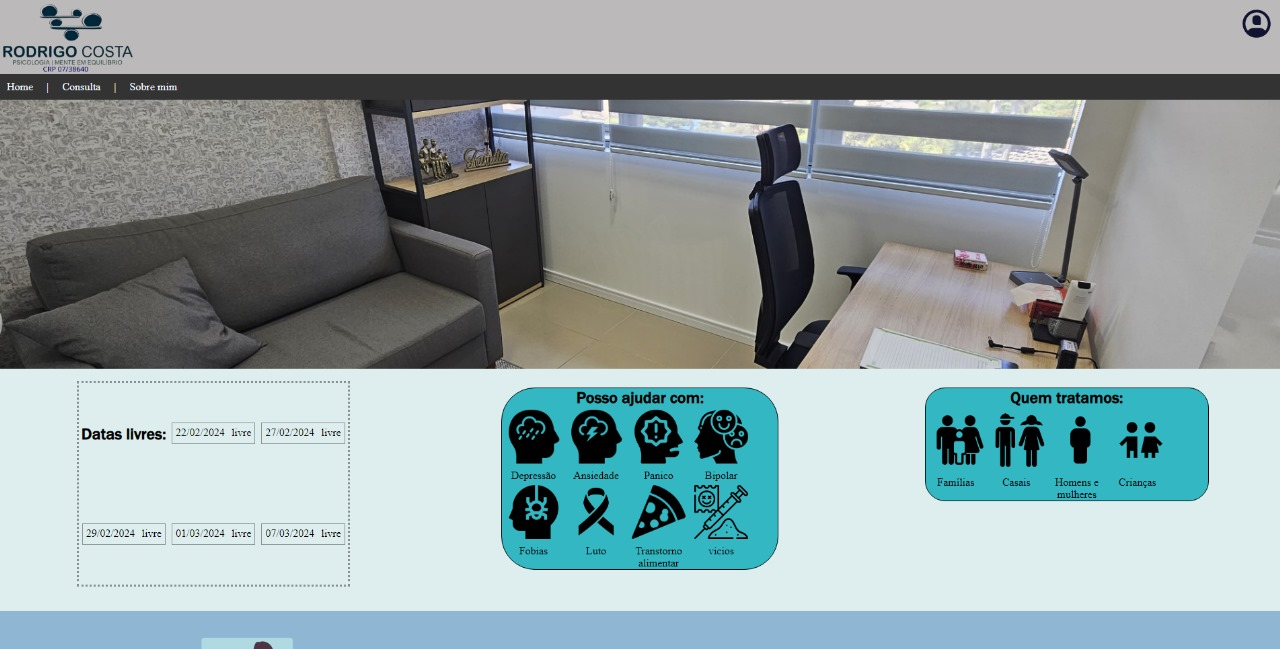
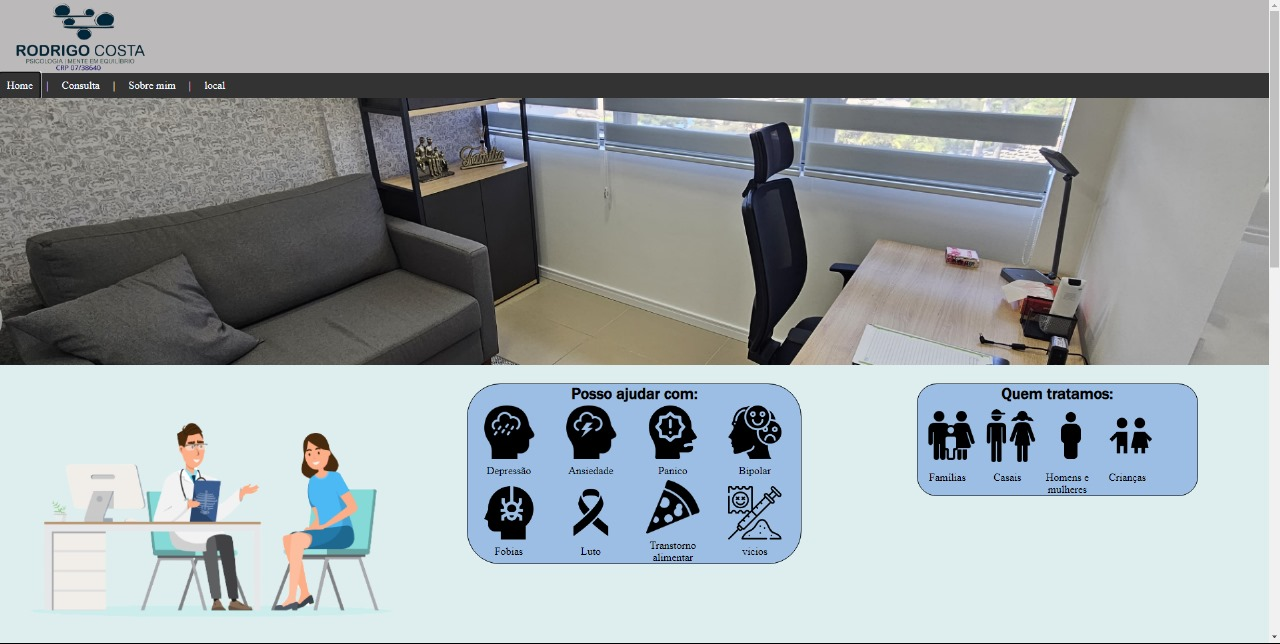
Add files via upload

diff --git a/index.html b/index.html
@@ -64,7 +64,6 @@
                         Este site foi um pedido de um professor meu que serviria de intermediador com a escola, 
                         aqui o site tem um proposito de ser parecido com um blog onde há adição e exclusão de
                         datas de treino, jogos e reuniões adição e exclusão de fotos, tabela de times e painel de admin.
-
                     </p> 
                     <br>
                     <div class="usados">
@@ -77,18 +76,16 @@
 
                 <div class="pro">
                     <h2>Site de psicologia:</h2>
-                    <a href="http://rodrigopsicologia.infinityfreeapp.com/" target="_blank"><img src="img/rodrigo.jpg" id="sor" alt=""></a>
+                    <a href="https://rodrigo-psicologia.vercel.app/" target="_blank"><img src="img/rodrigo.jpg" id="sor" alt=""></a>
                     <br>
                     <p>
                         Este site foi um pedido de outro professor meu, que faz psicologia,
-                        o site passa suas informações, localização de seu consultório, exibe datas 
-                        em que ele esta disponível para atendimento e redirecionamento para seu WhatsApp
-                        para agendar consultas.
+                        o site passa suas informações, localização de seu consultório e 
+                        contem redirecionamento para seu WhatsApp para agendar consultas.
                     </p> 
                     <br>
                     <div class="usados">
                         <p>usados:</p>
-                        <img src="img/php.svg" alt="">
                         <img src="img/css3-50.png" alt="">
                         <img src="img/html-5-50.png" alt="">
                     </div>
@@ -101,7 +98,7 @@
                     <p>
                         Outro experimento meu, o intuito desse site era
                         de juntar varias ferramentas em um so lugar. aqui
-                        temos gerador de senhas, encurtador de links, <br>
+                        temos gerador de senhas, encurtador de links,
                         gerador de QRCode, e testador de cores hexadecimal
                     </p> 
                     <br>
